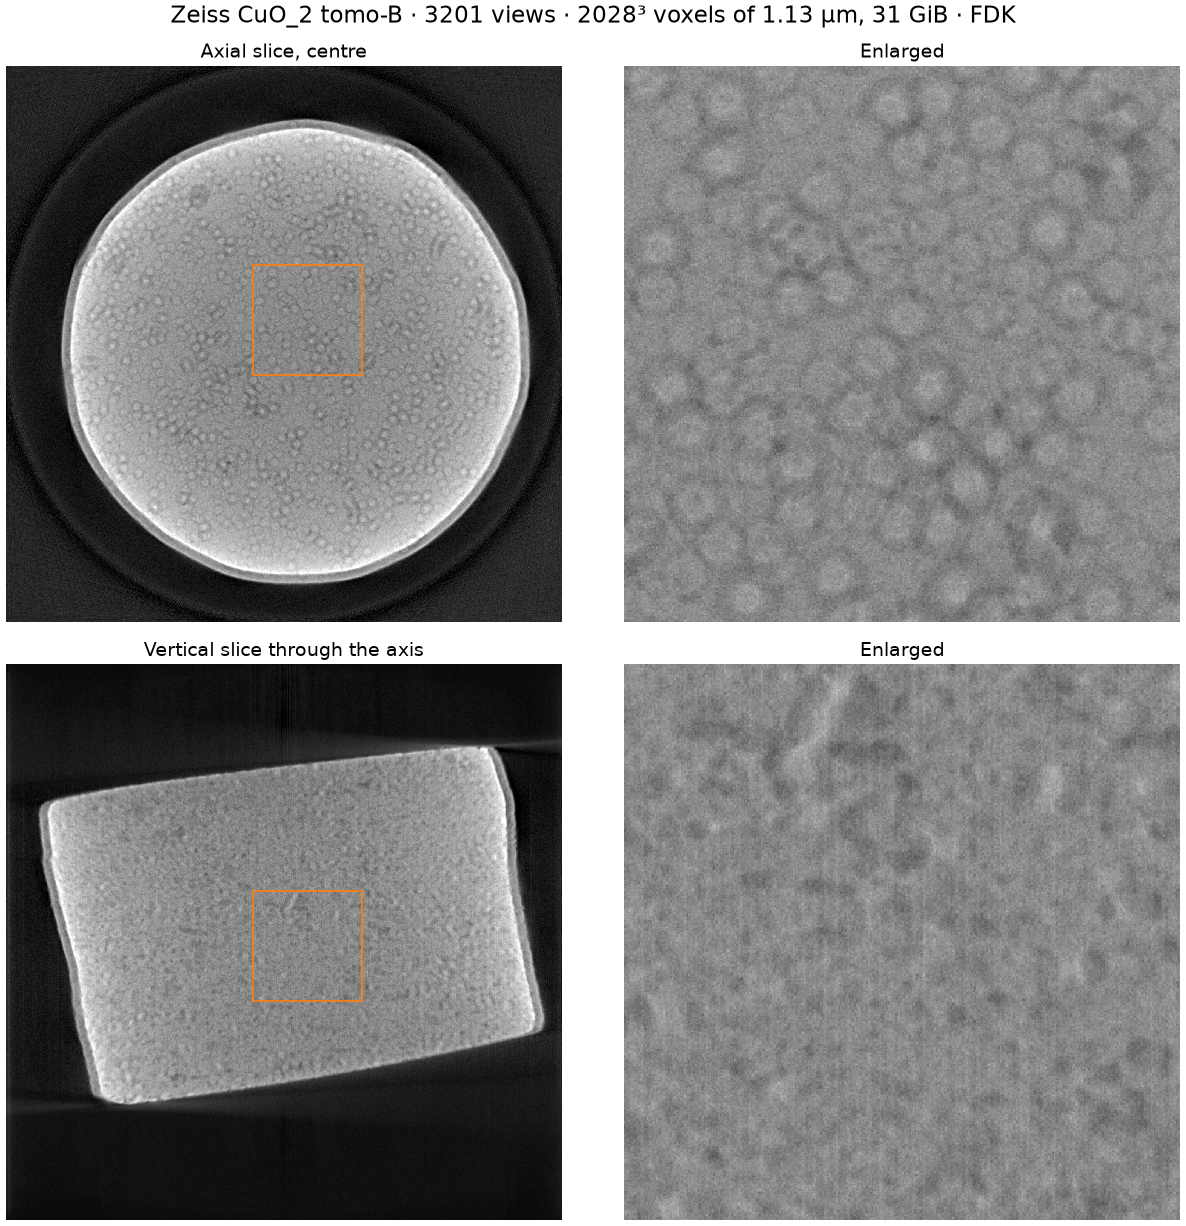
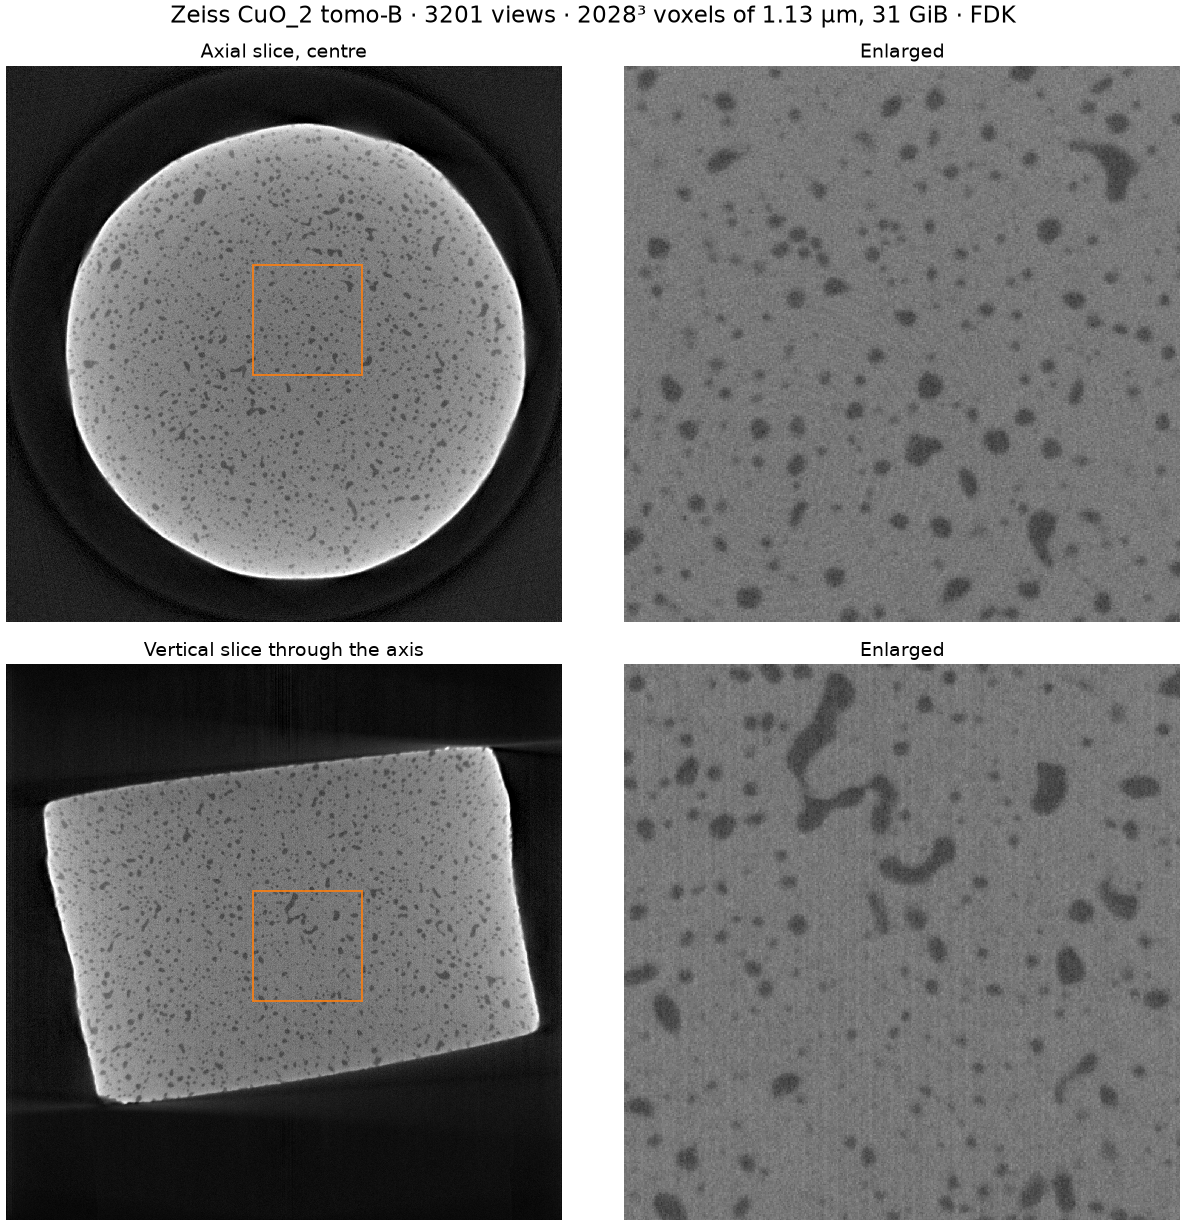
Redraw the figures the user rejected: recorded centres, ring correction, crops on the sample
The Zeiss panels (montage, lab CT, the 31 GiB volume) and the Nikon panel
now come from plain loads with the corrected reader, the Nikon scan from its
_recon.xtekct, with no alignment. The I13 panels and the ESRF beamline row
add Stripes(9) and Stripes(51, varying=True); the I13 slices keep broad rings
that this correction does not remove. The montage crops every panel to its
largest bright region, and the I13 quickstart slice to the pellet. The I12
rock rows are a second quickstart option. The installation figure is dropped.

Changed region(s): [[0.5304, 0.031, 0.9983, 1.0], [0.0312, 0.093, 0.468, 0.4959], [0.0312, 0.5889, 0.468, 0.8989]]

diff --git a/examples/gallery/geometry_montage.py b/examples/gallery/geometry_montage.py
@@ -6,13 +6,15 @@
 beam), ``k11-54286.nxs`` (Diamond K11, laminography),
 ``CuO_2_tomo-B.txrm`` (Zeiss Xradia, cone beam) and ``Walnut1`` (the FIPS
 walnut, cone beam on three orbits). Each slice is at the detector's own
-resolution and cropped to the object:
+resolution and cropped to the largest bright region:
 
-- I13 159815: 3001 views over a full turn, FBP of one detector row with the
-  centre from ``tj.align(fit="center", method="opposite-views")``;
+- I13 159815: 3001 views over a full turn, ``corrected(*RINGS)`` for its rings,
+  the centre from ``tj.align(fit="center", method="opposite-views")``, FBP of
+  one detector row;
 - K11 54286: 1441 views at 35°, aligned by ``tj.align(scan)``, FBP in-plane
   through the glass-sphere layer at 2.16 µm;
-- CuO_2 tomo-B: 3201 views, FDK of the central plane at 1.13 µm;
+- CuO_2 tomo-B: 3201 views with the centre and per-view shifts the file records,
+  FDK of the central plane at 1.13 µm;
 - Walnut 1: all 3600 views of its three orbits, the default ``tj.reconstruct``
   (CGLS for several cone arrangements) on the authors' 501³ grid of 0.1 mm.
 """
@@ -30,15 +32,23 @@ import matplotlib.pyplot as plt
 import numpy as np
 
 import tomojax as tj
+from tomojax.corrections import Stripes
 
 sys.path.insert(0, str(Path(__file__).resolve().parents[1]))
 from _walnut import load_scan
 
+RINGS = (Stripes(9), Stripes(51, varying=True))  # the I13 scan's ring correction
+
 
 def object_crop(image: np.ndarray, margin: float = 0.06) -> np.ndarray:
-    """The smallest centred square holding the bright object, with a margin."""
-    mask = image > np.percentile(image, 75)
-    rows, columns = np.nonzero(mask)
+    """The smallest centred square holding the largest bright region, with a margin."""
+    from scipy import ndimage
+
+    smooth = ndimage.gaussian_filter(np.asarray(image, np.float64), 4)
+    low, high = np.percentile(smooth, (5, 99.5))
+    labels, count = ndimage.label(smooth > (low + high) / 2)
+    largest = np.argmax(ndimage.sum(np.ones_like(smooth), labels, range(1, count + 1))) + 1
+    rows, columns = np.nonzero(labels == largest)
     centre = np.array(((rows.min() + rows.max()) / 2, (columns.min() + columns.max()) / 2))
     half = (1 + margin) * max(rows.max() - rows.min(), columns.max() - columns.min()) / 2
     half = min(half, *centre, *(np.array(image.shape) - centre))
@@ -50,7 +60,7 @@ def object_crop(image: np.ndarray, margin: float = 0.06) -> np.ndarray:
 def slices(data: Path) -> dict[str, np.ndarray]:
     """The four slices, keyed by their panel titles."""
     frames = tj.load_frames(data / "diamond-i13-mg31912-1/raw/159815.nxs")
-    scan = frames.cropped(slice(1079, 1082), slice(None)).corrected()
+    scan = frames.cropped(slice(1079, 1082), slice(None)).corrected(*RINGS)
     scan = tj.align(scan, fit="center", method="opposite-views").scan
     i13 = np.asarray(tj.reconstruct(scan, "fbp").volume, np.float32)[1]
     k11 = tj.align(load_k11(data / "k11-54286.nxs", 35.0)).scan

diff --git a/examples/gallery/first_slice.py b/examples/gallery/first_slice.py
@@ -1,8 +1,9 @@
-"""A first slice from a raw synchrotron scan, as the quickstart reaches it.
+r"""A first slice from a raw synchrotron scan, as the quickstart reaches it.
 
-    uv run python examples/gallery/first_slice.py 159815.nxs i13-first-slice.png
     uv run python examples/gallery/first_slice.py full_rows1048-1111.nxs i12-first-slice.png \
         --rows 24 40 --center -138 --crop 1500 1100 --title "Diamond I12, Vo et al."
+    uv run python examples/gallery/first_slice.py 159815.nxs i13-first-slice.png \
+        --view 650 700 1250 --crop 1350 1000
 
 The script follows the quickstart on an NXtomo file of raw counts with its
 flats and darks: ``tj.load_frames``, a crop to 16 detector rows,
@@ -42,6 +43,13 @@ def main() -> None:
     parser.add_argument(
         "--crop", type=int, nargs=2, default=(1400, 1000), metavar=("ROW", "COLUMN")
     )
+    parser.add_argument(
+        "--view",
+        type=int,
+        nargs=3,
+        metavar=("ROW", "COLUMN", "SIDE"),
+        help="the square of the slice the sample fills, in slice pixels",
+    )
     parser.add_argument("--title", default="Diamond I13 scan 159815")
     args = parser.parse_args()
     rows = slice(*args.rows)
@@ -66,11 +74,15 @@ def main() -> None:
     axes[0].set_aspect("auto")
     panel(axes[1], sinogram, "Corrected sinogram, one row", *np.percentile(sinogram, (0.5, 99.5)))
     axes[1].set_aspect("auto")
-    low, high = np.percentile(image, (0.5, 99.5))
+    top, left, side = args.view if args.view else (0, 0, image.shape[0])
+    whole = image[top : top + side, left : left + side]
+    low, high = np.percentile(whole, (0.5, 99.5))
     row0, column0 = args.crop
-    panel(axes[2], image, "FBP slice", low, high)
+    panel(axes[2], whole, "FBP slice, the sample", low, high)
     axes[2].add_patch(
-        plt.Rectangle((column0, row0), CROP, CROP, fill=False, color="tab:orange", lw=0.8)
+        plt.Rectangle(
+            (column0 - left, row0 - top), CROP, CROP, fill=False, color="tab:orange", lw=0.8
+        )
     )
     panel(axes[3], image[row0 : row0 + CROP, column0 : column0 + CROP], "Enlarged", low, high)
     views = scan.projections.shape[0]

diff --git a/examples/gallery/lab_cone_slices.py b/examples/gallery/lab_cone_slices.py
@@ -4,10 +4,14 @@
 
 The scans are a Zeiss Xradia acquisition (CuO_2 tomo-B, a copper oxide
 specimen) and a Nikon X-Tek scan of seeds in a box, each read by
-``tj.load_frames`` from the vendor's own files. Each is
-reconstructed by FDK in its central plane, one voxel per detector pixel at
-the rotation axis, from the 16 detector rows around the centre that this plane
-needs. Each slice is shown whole and with one enlarged region.
+``tj.load_frames`` from the vendor's own files with the centre and shifts those
+files record: the Zeiss scan's ``AutoRecon/CenterShift`` and per-view image
+shifts, and for Nikon the ``_recon.xtekct`` that holds the centre Nikon's
+reconstructor found. No alignment is run. Each is reconstructed by FDK in its
+central plane, one voxel per detector pixel at the rotation axis, from the 64
+detector rows around the centre, which cover the plane's rays in every view
+whatever its recorded vertical shift. Each slice is shown whole and with one
+enlarged region.
 """
 
 from __future__ import annotations
@@ -31,7 +35,7 @@ CROPS = {
 def central_slice(frames: tj.Frames) -> tuple[np.ndarray, float]:
     """FDK of the central plane at the native voxel size, and that size."""
     rows = frames.counts.shape[1]
-    scan = frames.cropped(slice(rows // 2 - 8, rows // 2 + 8), slice(None)).corrected()
+    scan = frames.cropped(slice(rows // 2 - 32, rows // 2 + 32), slice(None)).corrected()
     native = frames.geometry.grid
     grid = tj.Grid(native.nx, native.ny, 1, native.vx, native.vy, native.vx)
     return np.asarray(tj.reconstruct(scan, "fbp", grid=grid).volume, np.float32)[0], native.vx
@@ -40,7 +44,7 @@ def central_slice(frames: tj.Frames) -> tuple[np.ndarray, float]:
 def main() -> None:
     parser = argparse.ArgumentParser(description=__doc__.split("\n\n")[0])
     parser.add_argument("zeiss", type=Path, help="CuO_2_tomo-B.txrm")
-    parser.add_argument("nikon", type=Path, help="the seeds scan's .xtekct file")
+    parser.add_argument("nikon", type=Path, help="the seeds scan's _recon.xtekct file")
     parser.add_argument("output", type=Path)
     args = parser.parse_args()
     images = {

diff --git a/examples/gallery/beamline_first_slices.py b/examples/gallery/beamline_first_slices.py
@@ -22,6 +22,7 @@ import matplotlib.pyplot as plt
 import numpy as np
 
 import tomojax as tj
+from tomojax.corrections import Step, Stripes
 
 # (row, column, side) of each enlarged region, in slice pixels.
 CROPS = {
@@ -33,16 +34,27 @@ CROPS = {
 }
 
 
-def middle_row(frames: tj.Frames) -> np.ndarray:
+# The ring correction each slice needs; panels without rings take none.
+RINGS: dict[str, tuple[Step, ...]] = {
+    "ESRF NXtomo": (Stripes(9), Stripes(51, varying=True)),
+    "Diamond I13": (Stripes(9), Stripes(51, varying=True)),
+}
+
+
+def middle_row(frames: tj.Frames, steps: tuple[Step, ...] = ()) -> np.ndarray:
     """The page's one-row preview: the middle detector row, corrected and reconstructed."""
     row = frames.counts.shape[1] // 2
-    scan = frames.cropped(slice(row, row + 1), slice(None)).corrected()
+    scan = frames.cropped(slice(row, row + 1), slice(None)).corrected(*steps)
     return np.asarray(tj.reconstruct(scan).volume, np.float32)[0]
 
 
 def slices(data: Path) -> dict[str, np.ndarray]:
     """One reconstructed slice per recipe, keyed by facility."""
-    out = {"ESRF NXtomo": middle_row(tj.load_frames(data / "bamboo_reduced_bliss.nx"))}
+    out = {
+        "ESRF NXtomo": middle_row(
+            tj.load_frames(data / "bamboo_reduced_bliss.nx"), RINGS["ESRF NXtomo"]
+        )
+    }
     pitch = 3.7e-3
     out["PSI TOMCAT"] = middle_row(
         tj.load_frames(
@@ -65,7 +77,7 @@ def slices(data: Path) -> dict[str, np.ndarray]:
         data / "diamond-i13-mg31912-1/raw/159815.nxs",
         detector=tj.Detector(2560, 2160, 1, 1, center=(120, 0)),
     )
-    scan = frames.cropped(slice(1080, 1081), slice(441, 1872)).corrected()
+    scan = frames.cropped(slice(1080, 1081), slice(441, 1872)).corrected(*RINGS["Diamond I13"])
     out["Diamond I13"] = np.asarray(tj.reconstruct(scan).volume, np.float32)[0]
     return out
 

diff --git a/examples/gallery/zeiss_full_volume.py b/examples/gallery/zeiss_full_volume.py
@@ -3,7 +3,8 @@
     uv run python examples/gallery/zeiss_full_volume.py CuO_2_tomo-B.txrm VOLUME.npy OUT.png
 
 The scan is 3201 views of 2028 x 2028 pixels; its native grid is 2028³ voxels
-of 1.13 micrometres, 31 GiB in FP32. ``tj.reconstruct_slabs(frames, "fbp")``
+of 1.13 micrometres, 31 GiB in FP32. It is loaded with the centre and per-view
+image shifts the file records, and no alignment is run. ``tj.reconstruct_slabs(frames, "fbp")``
 corrects only the detector rows each slab of the volume needs and the blocks
 are written to a memmap ``VOLUME.npy`` on disk, so neither the corrected
 projections (52 GB) nor the volume is held in memory. The figure shows the

diff --git a/docs/quickstart.md b/docs/quickstart.md
@@ -140,17 +140,19 @@ The widths are detector columns, not reconstructed-ring radii. Increase the
 ordinary width for wider stripes, and compare images: stationary centred object
 features can also be changed. Missing information at dead pixels is not recovered.
 
-![A raw detector frame of a dense pellet with a band of 16 rows marked, the corrected sinogram of one row, its FBP slice and an enlarged region of the slice.](images/i13-first-slice.png)
+![A raw detector frame of a dense pellet with a band of 16 rows marked, the corrected sinogram of one row, its FBP slice cropped to the pellet and an enlarged region of the slice.](images/i13-first-slice.png)
 
 Diamond I13 scan 159815, 3001 views over a full turn, through these steps: one
 raw frame with the 16 cropped rows marked, the corrected sinogram of the middle
 row after `Stripes(9)` and `Stripes(51, varying=True)`, and its FBP slice with
-the centre from `tj.align(fit="center", method="opposite-views")`. The pellet
-absorbs almost all of the beam, so its slice is noisy and streaked where the
-rays cross it longest.
+the centre from `tj.align(fit="center", method="opposite-views")`, cropped to
+the pellet. The pellet absorbs almost all of the beam, so its slice is noisy
+and streaked where the rays cross it longest, and it keeps broad rings that the
+ring correction does not remove.
 
 ```bash
-uv run python examples/gallery/first_slice.py 159815.nxs i13-first-slice.png
+uv run python examples/gallery/first_slice.py 159815.nxs i13-first-slice.png \
+  --view 650 700 1250 --crop 1350 1000
 ```
 
 `corrected(..., binning=2)` averages 2 x 2 detector blocks of the line integrals,

diff --git a/docs/README.md b/docs/README.md
@@ -8,10 +8,13 @@ pages before planning a workflow.
 ![Four reconstructed slices, one per geometry: a dense pellet from Diamond I13 in parallel beam, a layer of glass spheres from Diamond K11 laminography, a copper oxide specimen from a Zeiss Xradia cone-beam scan, and a FIPS walnut from three cone-beam orbits.](images/geometry-montage.png)
 
 One real scan for each geometry TomoJAX reconstructs, each slice at its
-detector's resolution: Diamond I13 scan 159815 (parallel beam, FBP), Diamond
-K11 scan 54286 (laminography, aligned, FBP at 2.16 µm), Zeiss Xradia CuO_2
-tomo-B (cone beam, FDK at 1.13 µm) and FIPS walnut 1 (three cone orbits, CGLS on
-the authors' 0.1 mm grid).
+detector's resolution and cropped to the sample: Diamond I13 scan 159815
+(parallel beam; `Stripes(9)` and `Stripes(51, varying=True)` for its rings, the
+centre from `tj.align(fit="center", method="opposite-views")`, FBP), Diamond K11
+scan 54286 (laminography; aligned by `tj.align(scan)`, FBP at 2.16 µm), Zeiss
+Xradia CuO_2 tomo-B (cone beam; the centre and shifts its file records, FDK at
+1.13 µm) and FIPS walnut 1 (three cone orbits; CGLS on the authors' 0.1 mm
+grid). The I13 slice keeps broad rings that the ring correction does not remove.
 
 ```bash
 uv run python examples/gallery/geometry_montage.py DATA geometry-montage.png

diff --git a/docs/lab-ct.md b/docs/lab-ct.md
@@ -190,13 +190,14 @@ only in the orbit plane, with cone artefacts growing away from it.
 
 ![FDK central slices of two lab scans, each above an enlarged region: a copper oxide specimen from a Zeiss Xradia at 1.13 µm and a box of seeds from a Nikon X-Tek at 94 µm.](images/lab-cone-slices.png)
 
-The orbit plane of two lab scans, each read from the vendor's own files and
-reconstructed by FDK at one voxel per detector pixel at the rotation axis: the
-Zeiss Xradia CuO_2 tomo-B scan (3201 views) and the Nikon X-Tek seeds scan
-(1571 views).
+The orbit plane of two lab scans, each loaded from the vendor's own files with
+the centre they record and reconstructed by FDK at one voxel per detector pixel
+at the rotation axis, with no alignment: the Zeiss Xradia CuO_2 tomo-B scan
+(3201 views, its `AutoRecon/CenterShift` and per-view image shifts) and the
+Nikon X-Tek seeds scan (1571 views, the centre in its `_recon.xtekct`).
 
 ```bash
-uv run python examples/gallery/lab_cone_slices.py CuO_2_tomo-B.txrm "47209 testscan korn01.xtekct" lab-cone-slices.png
+uv run python examples/gallery/lab_cone_slices.py CuO_2_tomo-B.txrm "47209 testscan korn01_recon.xtekct" lab-cone-slices.png
 ```
 
 The iterative solvers model the cone beam exactly, with any per-view poses.

diff --git a/docs/large-scans.md b/docs/large-scans.md
@@ -228,10 +228,11 @@ volume.flush()
 
 ![The central axial slice and a vertical slice through the axis of a copper oxide specimen at 1.13 µm, each with an enlarged region.](images/zeiss-full-volume.png)
 
-The full Zeiss CuO_2 tomo-B scan, 3201 views of 2028 × 2028 pixels, reconstructed
-this way into a 2028³ volume of 1.13 µm voxels, 31 GiB written to a memmap. Its
-corrected projections alone would take 52 GB. It took 987 s on the RTX 4070
-Laptop GPU (8 GB) in a machine with 30 GB of memory.
+The full Zeiss CuO_2 tomo-B scan, 3201 views of 2028 × 2028 pixels, loaded with
+the centre and per-view image shifts its file records and reconstructed this way
+into a 2028³ volume of 1.13 µm voxels, 31 GiB written to a memmap, with no
+alignment. Its corrected projections alone would take 52 GB. It took 1036 s on
+the RTX 4070 Laptop GPU (8 GB) in a machine with 30 GB of memory.
 
 ```bash
 uv run python examples/gallery/zeiss_full_volume.py CuO_2_tomo-B.txrm VOLUME.npy OUT.png

diff --git a/docs/installation.md b/docs/installation.md
@@ -88,15 +88,6 @@ No external scan data is needed. Existing outputs are refused; use a new
 working directory or `--force` to replace them. Set `JAX_PLATFORMS=cpu` to
 explicitly select the CPU, or `JAX_PLATFORMS=cuda` to require CUDA for this run.
 
-![The 32-voxel phantom's central slice, its central projection and the reconstruction's central slice, each 32 pixels across.](images/installation-check.png)
-
-What the three commands produce: the phantom, one of its projections and the
-reconstruction, at the 32³ size of the check.
-
-```bash
-uv run python examples/gallery/installation_check.py installation-check.png
-```
-
 If the CLI is missing, check the environment path. If CUDA discovery fails,
 resolve the NVIDIA driver/JAX installation before diagnosing kernel performance.
 

diff --git a/docs/beamline-exports.md b/docs/beamline-exports.md
@@ -16,8 +16,9 @@ otherwise recognised file can still need `detector=` or `angles=`.
 One native detector row from each recipe below, corrected and reconstructed by
 the default `tj.reconstruct`. At one row the ESRF and TOMCAT slices are noisy.
 The Elettra sample extends past the field of view, so its slice is local
-tomography. The cSAXS slice is phase, not attenuation. The I13 slice keeps its
-rings: these recipes correct none.
+tomography. The cSAXS slice is phase, not attenuation. The ESRF and I13 rows are
+corrected with `corrected(Stripes(9), Stripes(51, varying=True))` for their
+rings; the I13 slice keeps broad rings that this correction does not remove.
 
 ```bash
 uv run python examples/gallery/beamline_first_slices.py DATA beamline-first-slices.png
